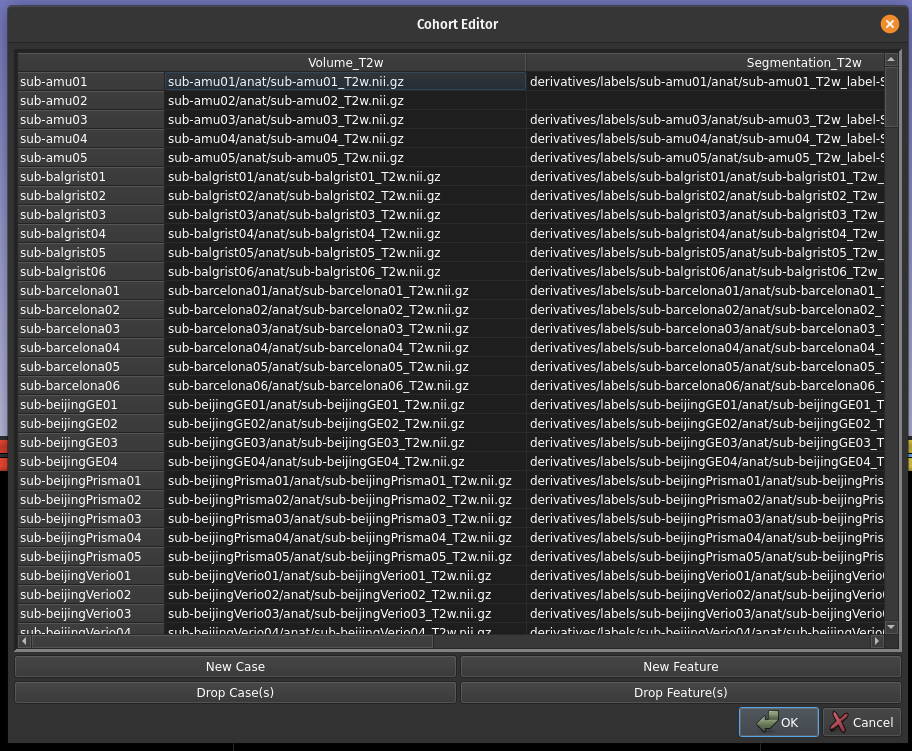
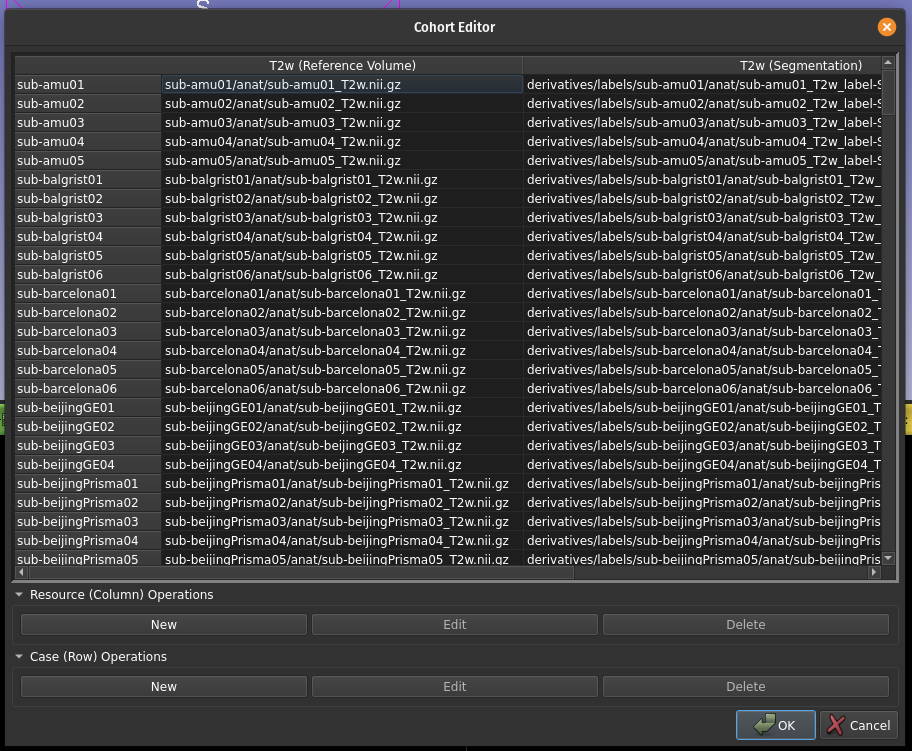
Improved README + updated documentation graphics.

Changed region(s): [[0.0, 0.0, 1.0, 1.0]]

diff --git a/README.md b/README.md
@@ -1,5 +1,7 @@
 # Case Annotation and Review Tool (CART)
 
+![](./CART/Resources/Icons/CART.png)
+
 ## Table of Contents
 
 * [What is CART?](#what-is-cart)
@@ -16,17 +18,17 @@
 
 # What is CART?
 
-CART is a module for 3D Slicer designed to help implement, manage, and run iterative analyses on image datasets. You can think of CART as an assembly line for data analysis; you define how your data should be grouped ("cases"), and what process you want to apply to it ("tasks"), and CART tracks how many you've completed and ensures that each has been processed by the task sequentially.
+CART is a module for 3D Slicer designed to help implement, manage, and run iterative analyses on image datasets. You can think of CART as an assembly line for data analysis; you define how your data should be grouped ("cases"), what should be loaded for you ("resources"), and what process you want to apply to it ("tasks"), and CART will manage the rest for you! Most tasks will even track how many you've completed, ensuring that you don't repeat the same case twice (or skip over one by mistake).
 
 Currently, it provides the following capabilities:
 
 * Managing sequential cases (be they patients, sub-studies, or other collections of data).
 * Caching and memory management.
 * Defining and handling multiple jobs, which can be run independently of one another.
+* Custom task creation and registration [Latter currently done via Config file manipulation].
 
 A number of features are currently in progress as well:
 
-* Custom task creation and registration.
 * Case pre-fetching/deferred loading.
 
 ---
@@ -44,20 +46,20 @@ A number of features are currently in progress as well:
 
 #### Option 1 (preferred): Download stable release
 
-- Download the ZIP archive from the [latest release](https://github.com/neuropoly/slicer-cart/releases).
-- Unpack the resulting ZIP archive to where you would like CART to live (on most OS systems, double-clicking on the file should tell you how to do this)
+- Download the ZIP archive for the [latest release](https://github.com/neuropoly/slicer-cart/releases/latest).
+- Unpack said ZIP archive to where you would like CART to live (on most OS systems, double-clicking on the file should tell you how to do this)
 
-#### Option 2: Download dev version
+#### Option 2: Download Current Dev Build
 
-- Download the ZIP archive from [here](https://github.com/SomeoneInParticular/CART/archive/refs/heads/main.zip)
-- Unpack the resulting ZIP archive to where you would like CART to live (on most OS systems, double-clicking on the file should tell you how to do this)
+- Download the git repository as a ZIP archive from [here](https://github.com/SomeoneInParticular/CART/archive/refs/heads/main.zip)
+- Unpack said ZIP archive to where you would like CART to live (on most OS systems, double-clicking on the file should tell you how to do this)
 
-#### Option 3: Clone from GitHub
+#### Option 3: Clone a Specific Branch from GitHub
 
 For this, you need to have `git` installed. 
 
 - Open a terminal and navigate to the directory you'd like CART to live in.
-- Run the following command to clone the current `CART` repository:
+- Run the following command to clone the current `CART` repository, replacing `CART-main` with :
   ~~~
   git clone [email redacted]:SomeoneInParticular/CART.git CART-main
   ~~~
@@ -123,20 +125,20 @@ In the future, you will be able to register and use custom tasks as well; this i
 
 #### Data Selection
 
-Here you define what files the job should use, where it should save its results, and how it should iterate through both. To select the former two, click the '...' to bring up the file browser to choose their respective folders.
+Here you define what files the job should use, where it should save its results, and how that data should be iterated via a "cohort" file. To select the former two, click the '...' to bring up the file browser to choose their respective folders.
 
 ![Preview of the 'Data Selection' Job Setup Wizard page.](CART/Resources/images/readme/data_selection_page.png)
 
-Assuming you've never used CART before, you'll probably not have a cohort file ready. If so, click the "New Cohort File Button"; this will walk you through the process of creating one using the contents of the input folder you provided and the task you selected previously. See TODO for further details on what a cohort is and how to generate one. If you have a cohort file already, however, you can just select it via the same '...' button described prior.
+Assuming you've never used CART before, you'll probably not have a cohort file ready. If so, click the "Create New Cohort File" button; this will walk you through the process of creating one using the contents of the input folder you provided and the task you selected previously. If you have a cohort file already, however, you can just select it via the same '...' button described prior, or by selecting the "Select Existing File" button.
+
+Once a file has been selected/created, a preview of its contents will be shown in the window at the bottom the panel. If you wish to edit its contents, select the "Edit Selected File" button to do so.
 
 #### Task-Specific Options
 
-As the name implies, what appears here depends on the task you selected previously. This is usually configuration options which dictate how the task will run or save its results (i.e. the file format of its outputs), but the specifics are up to the task's developer. Skim through it to ensure they are configured to your liking, then continue.
+As the name implies, what appears here depends on the task you selected previously. An example of options the Segmentation task provides is shown below: 
+![task_specific.png](CART/Resources/images/readme/task_specific.png)
 
-#### Final Review
-
-WORK IN PROGRESS!
-
+The contents of this are normally related to how files will be loaded into Slicer when a new case is started, or how the results of the task will be saved (ex. file format). Most tasks have sensible defaults for any configurations presented here, but you should skim through these options to be sure.
 
 ## Running a Job
 
@@ -148,9 +150,9 @@ The "Start" button will now have CART start the job; enjoy!
 
 ## Cohorts and You
 
-Within CART, a cohort dictates how CART's various tasks will iterate through the data specified within a job. Its stored as a `.csv` file, with each row indicates one "case" that will be run, with each column indicating a potential resource that each case could have; if it was generated using CART (see below), there will also be a `.json` sidecar file with it to provide additional metadata for CART's cohort utilities to use. 
+Within CART, a "cohort" dictates how CART's various tasks will iterate through the data specified within a job. It's stored as a `.csv` file, with each row indicating one "case" that will be run, and each column indicating a potential resource that each case could have. Given you generated the file through CART (see above), there will also be a `.json` sidecar file alongside it, providing additional metadata for CART to reference.
 
-Being a `.csv` file, you can create these from scratch, be it manually or via a script. However, CART provides the Cohort Generator and Cohort Editor to make doing so much more easy and intuitive, with both being accessible during Job creation and editing.
+Being a `.csv` file, you can create these from scratch, be it manually or via a script. However, we strongly encourage you use CART's provided "Cohort Generator" and "Cohort Editor", which make cohort creation and management both much easier and less prone to error (especially with task-specific settings).
 
 ### The Cohort Generator
 
@@ -158,17 +160,23 @@ When you click the "New Cohort File" button during Job creation/editting, you'll
 
 ![Preview of the 'New Cohort' prompt.](CART/Resources/images/readme/cohort_new.png)
 
-Naturally, the `.csv` file needs to go somewhere; use the `...` button to bring up a file browser, allowing you to decide where this should be (you can also select an existing file if you want to replace it; this cannot be undone, however!)
+The "Destination File" determines the name of the cohort file you want to create (with the desired `.csv` extension!); you can also specify the full path to a desired output destination if you'd like. Be careful; CART will happily overwrite pre-existing cohort files if you tell it too!
 
-You can then specify the cohort's "type", which how CART will identify and generate cases (rows). Select one to bring up details on how the given type will do so; you can also select "Blank Slate" if you want to create a cohort completely from scratch (with no cases identified by default _at all_). Once you click "Ok", a new cohort `.csv` (alongside a `.json` sidecar) will be created and opened in the Cohort Editor.
+You can then specify the cohort's "type", which dictates how CART will initially identify and generate cases (rows) in the cohort. Select one to bring up further details; you can also select "Blank Slate" if you want to create a cohort completely from scratch (with no cases identified by default _at all_). Once you click "Ok", a new cohort `.csv` (alongside a `.json` sidecar) will be created and opened in the Cohort Editor.
 
 ### The Cohort Editor
 
-Once you have a cohort `.csv` file (generate by CART or otherwise), you can use the CART Cohort Editor to extend and/or modify it:
+Once you have a cohort `.csv` file (generated by CART or otherwise), you can use the Cohort Editor to extend and/or modify it:
 
-![Preview of the 'New Cohort' prompt.](CART/Resources/images/readme/cohort_edit.png)
+![Preview of the 'Edit Cohort' prompt.](CART/Resources/images/readme/cohort_edit.png)
 
-The buttons along the bottom allow you to add or drop cases (rows) and resources (columns). If you want to edit exiting rows/columns, right-click on the cells and select the corresponding "Modify" option instead. In both cases, CART will try to fill in the cells of the table intelligently based on the settings of rows/columns which intersect with the modified element. If you need to manually enter something into the table, double-clicking on the cell will let you edit the contents directly w/o using CART's automatic updating. How this automatic updating is run is task-specific; refer to the task's specific documentation for further details.
+The buttons along the bottom allow you to add or drop cases (rows) and resources (columns). If you want to edit exiting rows/columns, either right-click on the relevant cells and select the corresponding "Modify" option, or select the row/column you'd like to edit and click the corresponding "Edit" button along the bottom. In both cases, CART will try to fill in the cells of the table intelligently based on the settings of rows/columns which intersect with the modified element. 
+
+If you need to manually enter something into the table, double-clicking on the cell will let you edit the contents directly w/o using CART's automatic updating. How this automatic updating is run is task-specific; refer to the task's specific documentation for further details.
+
+Like the job profile itself, many tasks can also have resource-specific configuration settings. An example of what this can look like is shown below, taken from the "Markup" task:
+
+![Example of the resource-specific GUI.](CART/Resources/images/readme/resource_specific.png)
 
 ---
 
@@ -176,7 +184,7 @@ The buttons along the bottom allow you to add or drop cases (rows) and resources
 
 ## Project Standards
 
-Below is a short summary of standards and format we use in CART; for more details, please refer to the [developer wiki](https://github.com/SomeoneInParticular/CART/wiki).
+Below is a short summary of standards and format we use in CART; for more details, please refer to the [WIP!] [developer wiki](https://github.com/SomeoneInParticular/CART/wiki).
 
 ### Python
 
@@ -197,6 +205,8 @@ To fix this, please mark the following directories as "source" folders in the Pr
 * `{This Directory}/CART`; exposes CARTLib and its contents.
 
 ## Example Data
+
+⚠️ This will be changed soon, replaced with a `git-annex` dataset to slim up the repository! ⚠️
 
 The example data consists of a subset (fold0) from the PI-CAI dataset, featuring prostate MRI images and their corresponding segmentations. The original data can be obtained from the [official website](https://zenodo.org/records/6624726) by downloading the `picai_public_images_fold0.zip` file.
 